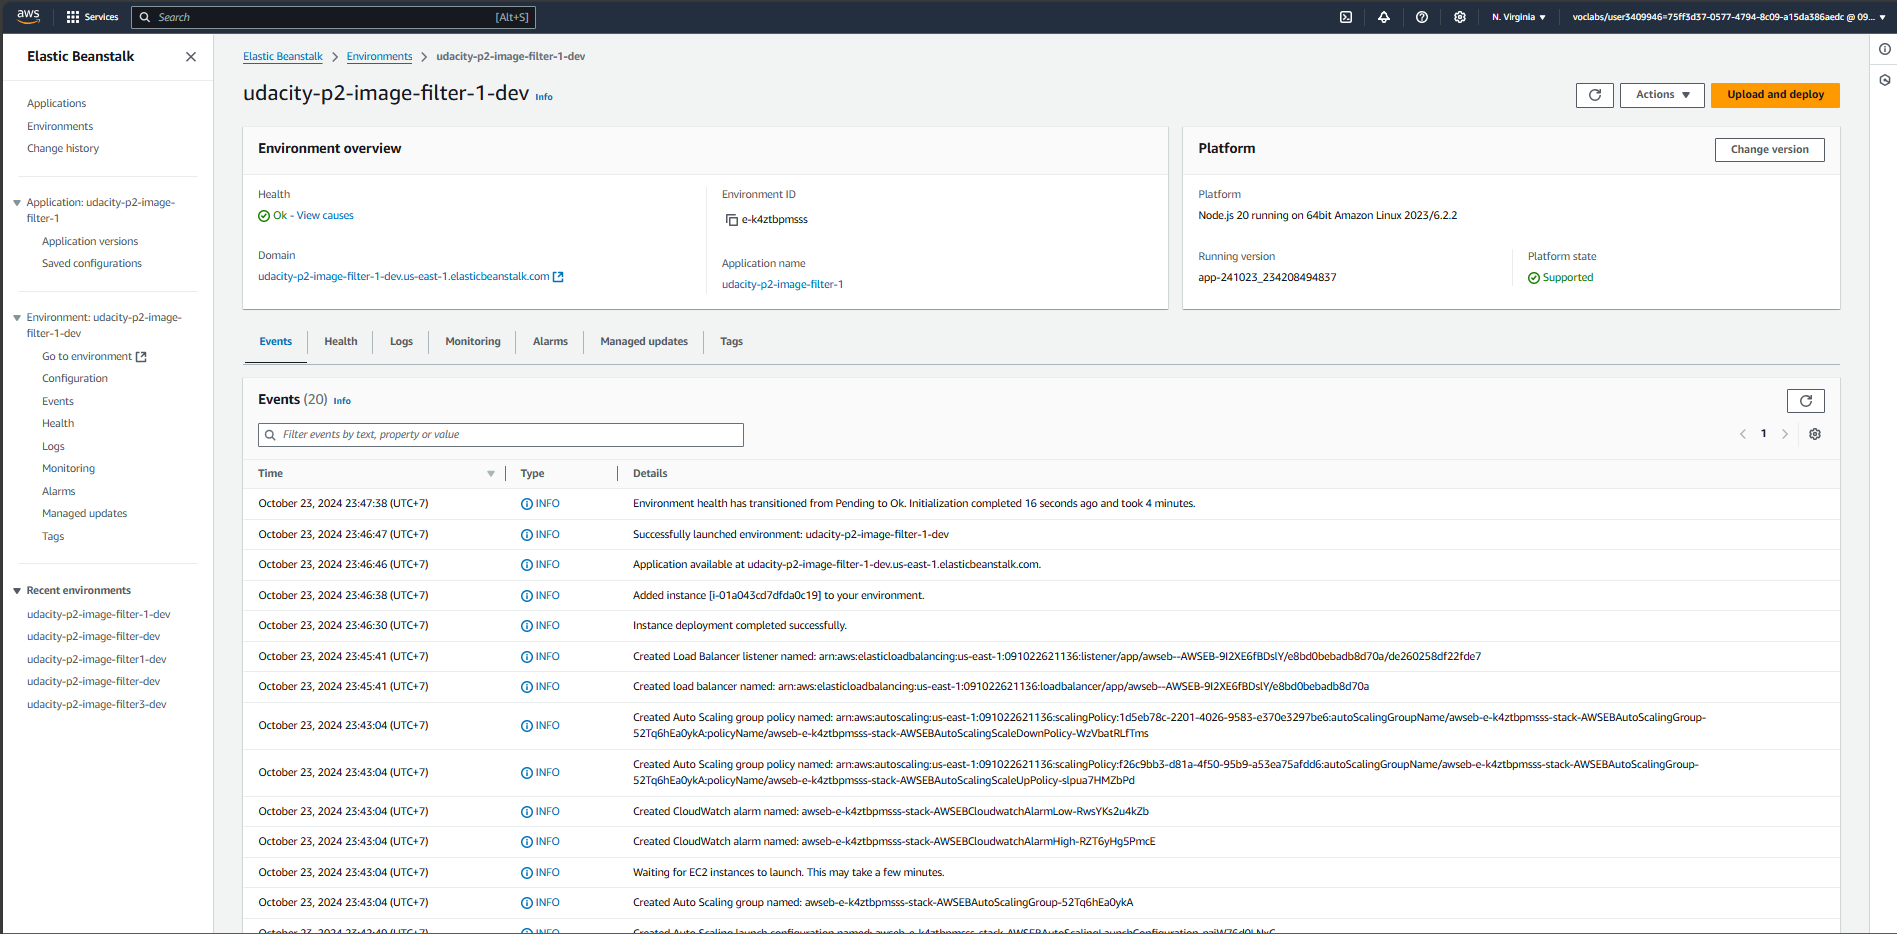
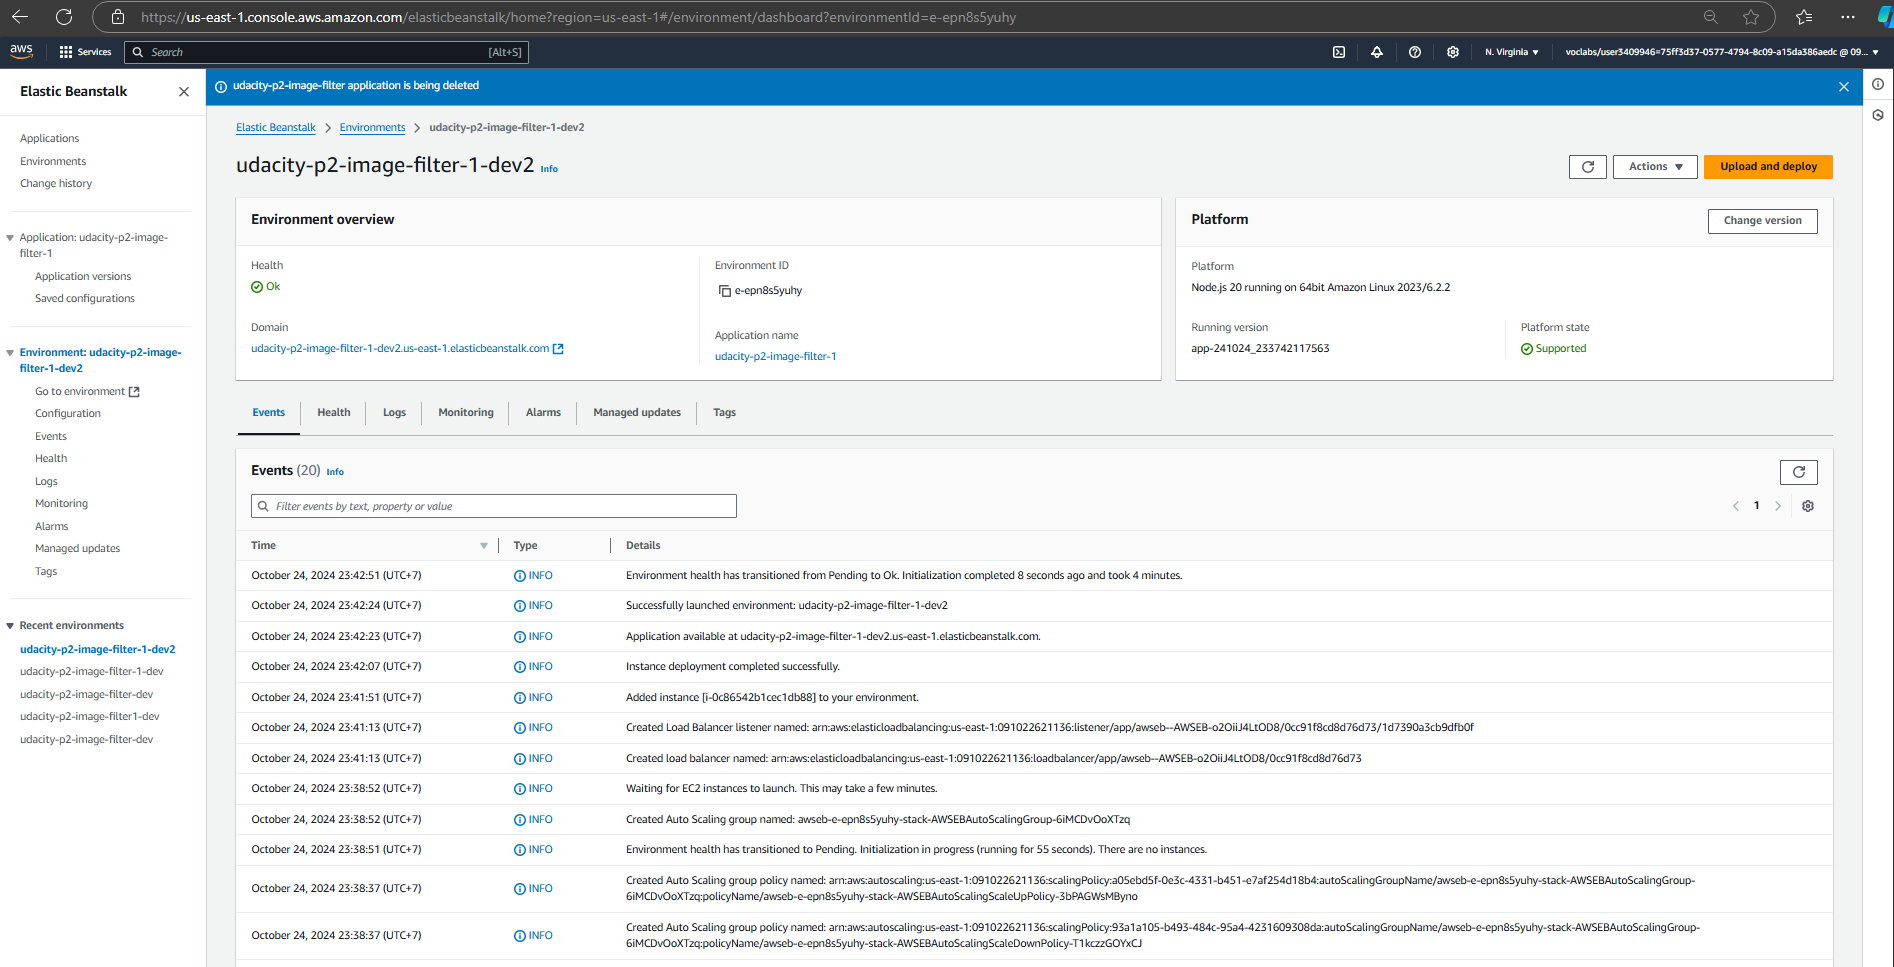
update readme and screen shot

diff --git a/README.md b/README.md
@@ -1,9 +1,9 @@
 # Endpoint ElasticBeanstalk
-http://udacity-p2-image-filter-1-dev.us-east-1.elasticbeanstalk.com/
+http://udacity-p2-image-filter-1-dev2.us-east-1.elasticbeanstalk.com/
 
 # Git repository
 https://github.com/diepcongdai001/udacity-p2-image-filter
 
 
 # Url sample 
-http://udacity-p2-image-filter-1-dev.us-east-1.elasticbeanstalk.com/filteredimage?image_url=https://upload.wikimedia.org/wikipedia/commons/b/bd/Golden_tabby_and_white_kitten_n01.jpg
+http://udacity-p2-image-filter-1-dev2.us-east-1.elasticbeanstalk.com/filteredimage?image_url=https://upload.wikimedia.org/wikipedia/commons/b/bd/Golden_tabby_and_white_kitten_n01.jpg
